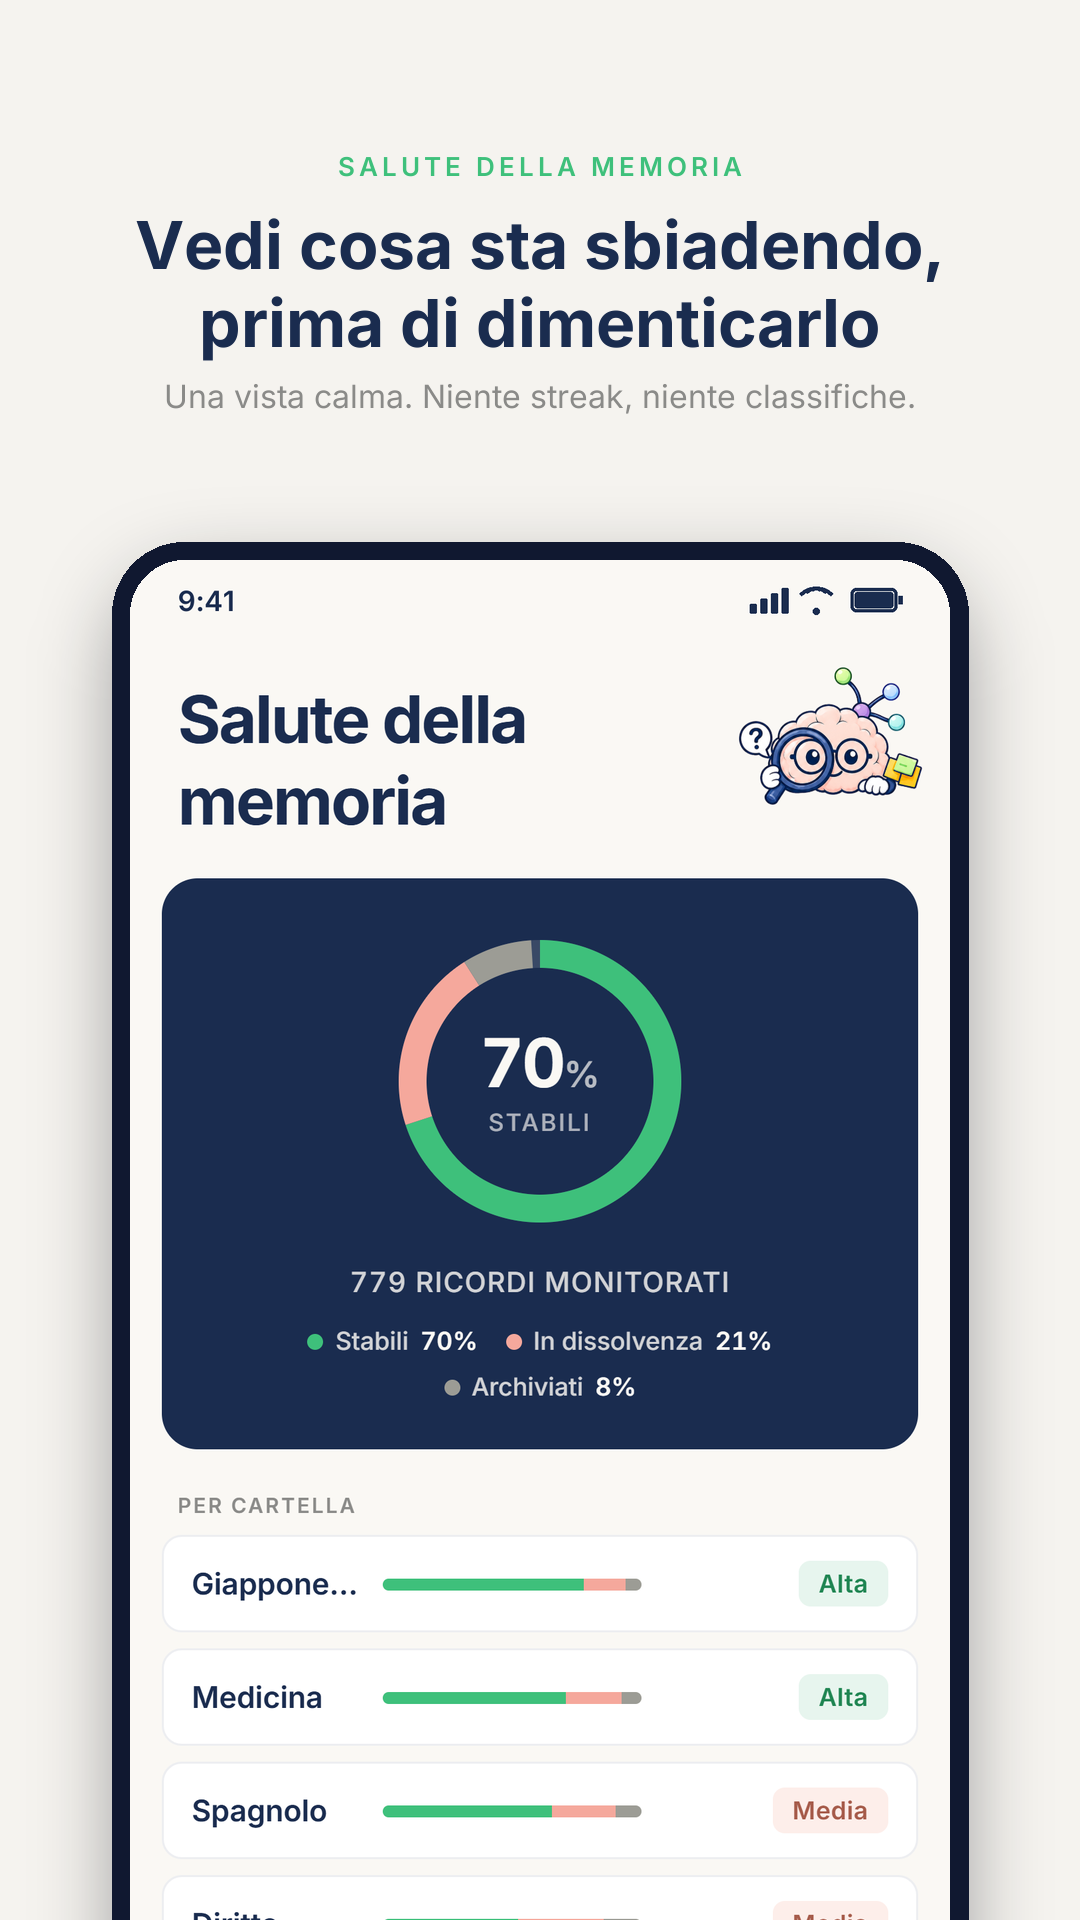
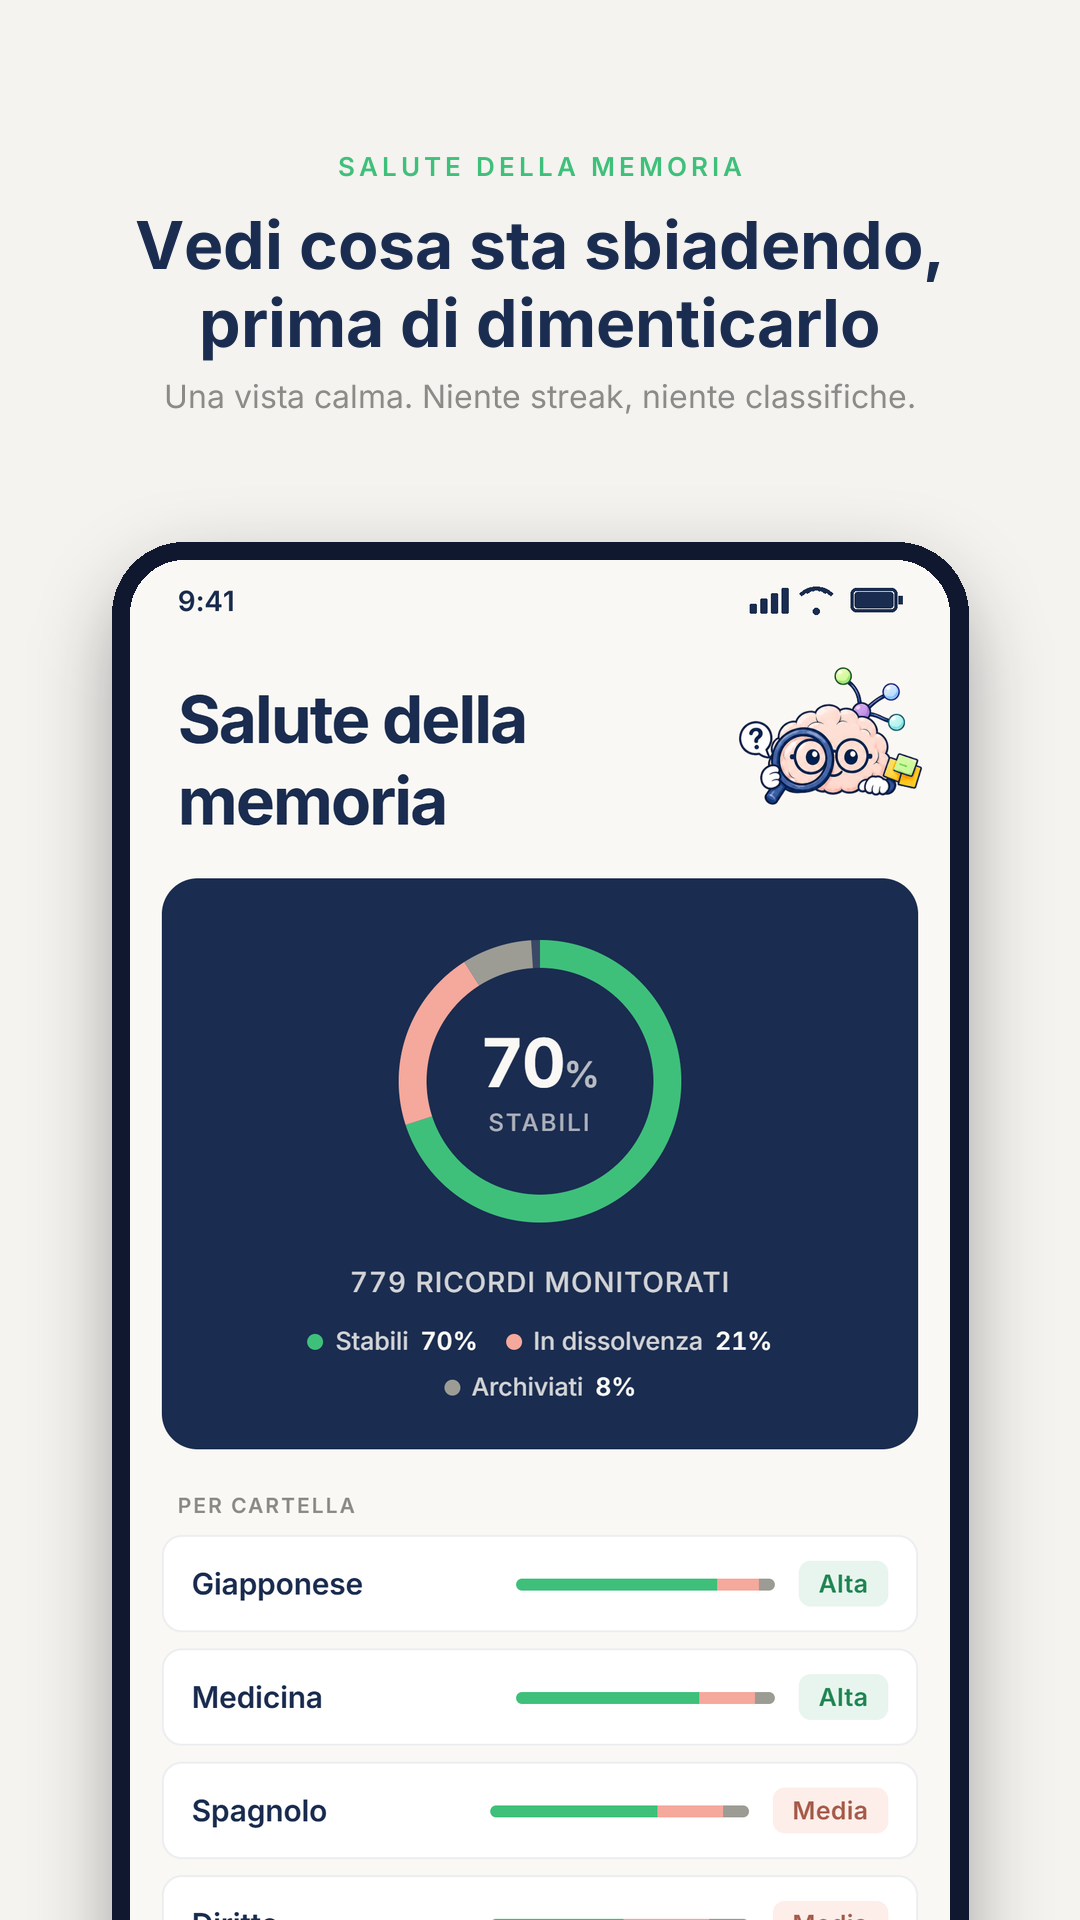
fix(health): folder name takes the row's slack instead of a fixed 84 px column
"Giapponese" was ellipsised in every per-folder row of Memory Health. The
name now flexes (min 84 px) while the retention bar and chip stay fixed.
Board 07 regenerated.

Also: the raw-captures ignore rule moves from the ROOT .gitignore to
scripts/store-screenshots/.gitignore — the root file is an @expo/fingerprint
input, and the previous commit had silently changed the runtime version
away from build 11's (8c4be079…); restored and re-verified equal.
docs: Play declarations fixed (no data export claim, Advertising ID = No,
name is required at signup, Sentry rows = No until a DSN ships, EAS client
ID note, target audience 16-17 + 18+ to match the published legal pages —
to confirm with Maurizio); DEPLOY.md OTA section lists the fingerprint
inputs and the .env foot-gun; stale "not installed" lines corrected.

Claude-Session: https://claude.ai/code/session_01RMzXaUqHmwyrYfUt7y6Vpz

diff --git a/components/HealthRow.tsx b/components/HealthRow.tsx
@@ -37,12 +37,13 @@ export function HealthRow({ name, active, fading, archived, chip }: Props) {
       <Text
         className="text-navy"
         numberOfLines={1}
-        style={{ fontFamily: FONT.semibold, fontSize: 15, letterSpacing: -0.07, width: 84 }}
+        // The name takes all the slack (bar and chip are fixed width) instead
+        // of a fixed 84 px column that ellipsised "Giapponese" on every phone.
+        style={{ fontFamily: FONT.semibold, fontSize: 15, letterSpacing: -0.07, flex: 1, minWidth: 84 }}
       >
         {name}
       </Text>
       <RetentionBar active={active} fading={fading} archived={archived} width={130} height={6} />
-      <View style={{ flex: 1 }} />
       <View
         className="rounded-tag"
         style={{ backgroundColor: s.bg, paddingHorizontal: 10, paddingVertical: 4 }}

diff --git a/docs/store-listing.md b/docs/store-listing.md
@@ -38,7 +38,7 @@ GRATIS E PREMIUM
 Memika è gratuita con una cartella di ricordi. In arrivo Memika Premium, con cartelle illimitate, gestito come abbonamento dal Google Play Store.
 
 I TUOI DATI
-I ricordi sono tuoi: puoi esportare ed eliminare tutto in qualsiasi momento dalle Impostazioni. Informativa sulla privacy: https://ioterra360.github.io/memika-legal/privacy/
+I ricordi sono tuoi: puoi eliminare tutto in qualsiasi momento dalle Impostazioni e chiederci una copia dei tuoi dati quando vuoi. Informativa sulla privacy: https://ioterra360.github.io/memika-legal/privacy/
 ```
 
 **Categoria**: App → Istruzione
@@ -65,9 +65,11 @@ I ricordi sono tuoi: puoi esportare ed eliminare tutto in qualsiasi momento dall
 
 **Annunci** → No, l'app non contiene annunci.
 
+**ID pubblicità (Advertising ID)** → No: nessun SDK pubblicitario/analytics, nessuna permission `com.google.android.gms.permission.AD_ID` nel manifest (verificato in expo, expo-updates, @sentry/react-native). Se la Console segnala un'incoerenza col manifest caricato, ricontrollare l'AAB.
+
 **Classificazione dei contenuti** (questionario IARC) → categoria *Riferimento, notizie o istruzione* (in alternativa *Utilità, produttività, comunicazione o altro*). Risposte: nessuna violenza, nessun contenuto sessuale, nessun linguaggio volgare, nessuna sostanza, nessun gioco d'azzardo, nessuna interazione tra utenti né condivisione di contenuti, nessuna condivisione di posizione, nessun acquisto di beni digitali (finché non ci sono gli IAP: aggiornare a "sì" con RevenueCat), nessun accesso illimitato a internet (i link legali si aprono nel browser di sistema). Risultato atteso: PEGI 3 / Everyone.
 
-**Pubblico target e contenuti** → fascia *18 anni e oltre*; l'app non è pensata per bambini; nessun elemento che attiri involontariamente i minori.
+**Pubblico target e contenuti** → fasce *16-17* e *18 anni e oltre* (i Termini e la Privacy pubblicati riservano l'app ai maggiori di 16 anni — dichiarare solo 18+ sarebbe incoerente con le pagine legali); l'app non è pensata per bambini; la mascotte è un cervello cartoon ma il contenuto (lingue, medicina, diritto, esami) non attira i minori di 13 anni. Decisione da confermare con Maurizio (2026-08-27).
 
 **App di notizie** → No. **App per il tracciamento dei contatti COVID-19** → No. **App governativa** → No. **Funzionalità finanziarie** → Nessuna. **App per la salute** → Nessuna funzionalità sanitaria.
 
@@ -79,13 +81,14 @@ I ricordi sono tuoi: puoi esportare ed eliminare tutto in qualsiasi momento dall
   | Categoria | Tipo | Raccolto | Condiviso | Obbligatorio | Finalità |
   |---|---|---|---|---|---|
   | Informazioni personali | Indirizzo email | Sì | No | Sì | Gestione account |
-  | Informazioni personali | Nome | Sì | No | No | Funzionalità dell'app, Personalizzazione |
+  | Informazioni personali | Nome | Sì | No | Sì (richiesto alla registrazione) | Funzionalità dell'app, Personalizzazione |
   | Attività nell'app | Altri contenuti generati dagli utenti (i ricordi) | Sì | No | Sì | Funzionalità dell'app |
   | Attività nell'app | Azioni nell'app (esiti dei ripassi) | Sì | No | Sì | Funzionalità dell'app |
   | Info e prestazioni app | Log degli arresti anomali | Sì* | No | No | Analisi |
   | Info e prestazioni app | Diagnostica | Sì* | No | No | Analisi |
   | Dispositivo o altri ID | Dispositivo o altri ID | Sì* | No | No | Analisi |
-  \* Solo se Sentry è attivo nella build pubblicata (DSN impostato). Se si pubblica senza Sentry, dichiarare "No" per queste tre righe e aggiornare il modulo quando si attiva.
+  \* Solo se Sentry è attivo nella build pubblicata (DSN impostato). **Le build attuali (vc7–vc11) NON hanno il DSN in `eas.json` → dichiarare "No" per log arresti anomali e diagnostica** e aggiornare il modulo quando si attiva.
+  Nota: da vc9 in poi `expo-updates` invia un ID client EAS per installazione al server di aggiornamento di Expo (verifica aggiornamenti OTA): se la Console lo richiede, dichiararlo come "Dispositivo o altri ID · Raccolto · Non condiviso · Funzionalità dell'app" (fornitore di servizi, non condivisione).
 - Nessun dato trattato in modo effimero; nessuna raccolta di posizione, contatti, foto, file, messaggi.
 
 ## Impostazioni store (Crescita → Presenza sullo store → Impostazioni)

diff --git a/docs/DEPLOY.md b/docs/DEPLOY.md
@@ -36,7 +36,7 @@ What's not yet set up:
   must set `SENTRY_DISABLE_AUTO_UPLOAD=true` or the build fails (see § Sentry)
 - Legal pages live on GitHub Pages (ioterra360/memika-legal) (drafts in `docs/legal/`, Maurizio publishes)
 - RevenueCat (`docs/PAYMENTS.md`) — not started
-- OTA updates (`expo-updates` not installed; no `channel` keys in `eas.json` on purpose)
+- OTA updates: `expo-updates` installed since build 9 (2026-08-27), channels `development`/`preview`/`production` in `eas.json`, runtime policy `fingerprint` — see § OTA updates and the fingerprint inputs note there
 
 This doc captures the setup so we don't reinvent it under deadline.
 
@@ -111,6 +111,21 @@ Choice: option 1 for `EXPO_PUBLIC_*` (they're already public in the bundle),
 option 2 for any server-only values that get added later (none in Phase 1-3).
 
 ## OTA updates (`expo-updates` / EAS Update)
+
+> **Fingerprint inputs — check before every `eas update`.** The runtime version is a
+> hash of: `app.json`/`app.config` result (including `platforms`, which gains `"web"`
+> if `react-native-web` is merely installed), `eas.json`, the **root** `.gitignore`,
+> the icon/splash PNGs referenced by the config, and every native dependency. Run
+> `npx expo-updates fingerprint:generate --platform android` and compare with
+> `eas build:view <id> --json` → `runtimeVersion` of the build you want to reach;
+> if they differ the update is silently ignored by that build. Nested `.gitignore`
+> files are not inputs — put tooling ignore rules there.
+>
+> **`.env` foot-gun.** `eas update` bundles `EXPO_PUBLIC_*` from the *local* `.env`
+> (`eas.json` `build.<profile>.env` applies to builds only). Publish only from a
+> checkout whose `.env` carries the production Supabase URL/anon key; an update
+> exported without them ships empty creds and every install fails fast on the
+> next launch (`release-missing-creds`). Run the Hermes pre-check first.
 
 **Enabled 2026-08-26** (Angelo: testers must get fixes without new builds).
 `expo-updates` is installed, `app.json` has `updates.url` (u.expo.dev/<projectId>)
@@ -294,7 +309,7 @@ unadvertised first release, re-export from a vector source before marketing).
 | File | Size / mode | Used by |
 | --- | --- | --- |
 | `assets/icon.png` | 1024×1024 RGB, opaque, square corners | `expo.icon` (iOS app icon — Apple rejects alpha) |
-| `assets/adaptive-icon.png` | 1024×1024 RGBA, tile inside the 672 px safe circle | `expo.android.adaptiveIcon.foregroundImage` on `#F5F3EF` |
+| `assets/adaptive-icon.png` | 1024×1024 opaque RGB, full-bleed navy (tile gradient extended to the edges), artwork inside the 672 px safe circle | `expo.android.adaptiveIcon.foregroundImage` on `#142450` (was `#F5F3EF`, which showed as a light ring around the tile) |
 | `assets/splash-icon.png` | 1024×1024 RGBA | `expo-splash-screen` plugin, `imageWidth: 200` on `#F5F3EF` |
 | `assets/favicon.png` | 48×48 RGBA | `expo.web.favicon` |
 | `docs/store-assets/appstore-icon-1024.png` | 1024×1024 RGB, no alpha | App Store Connect listing icon (upload manually) |
